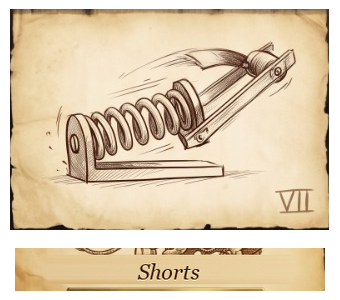
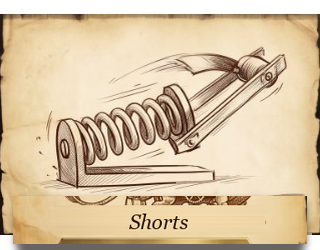
feat: authentic 3D brass metal plates with realistic drop shadows, bevels, side rivets and cleaned parchment

diff --git a/frontend/index.html b/frontend/index.html
@@ -16,7 +16,7 @@
     <link rel="preconnect" href="https://fonts.gstatic.com" crossorigin />
     <link href="https://fonts.googleapis.com/css2?family=Plus+Jakarta+Sans:wght@500;600;700;800&display=swap" rel="stylesheet" />
     
-    <link rel="stylesheet" href="./assets/css/main.css?v=2.8" />
+    <link rel="stylesheet" href="./assets/css/main.css?v=2.9" />
 
     <script>
       // Global splash screen dismissal
@@ -90,6 +90,6 @@
       }
     </style>
 
-    <script type="module" src="./app.js?v=2.8"></script>
+    <script type="module" src="./app.js?v=2.9"></script>
   </body>
 </html>

diff --git a/index.html b/index.html
@@ -16,7 +16,7 @@
     <link rel="preconnect" href="https://fonts.gstatic.com" crossorigin />
     <link href="https://fonts.googleapis.com/css2?family=Plus+Jakarta+Sans:wght@500;600;700;800&display=swap" rel="stylesheet" />
     
-    <link rel="stylesheet" href="./assets/css/main.css?v=2.8" />
+    <link rel="stylesheet" href="./assets/css/main.css?v=2.9" />
 
     <script>
       // Global splash screen dismissal
@@ -90,6 +90,6 @@
       }
     </style>
 
-    <script type="module" src="./app.js?v=2.8"></script>
+    <script type="module" src="./app.js?v=2.9"></script>
   </body>
 </html>

diff --git a/assets/css/main.css b/assets/css/main.css
@@ -338,7 +338,7 @@ html, body {
 .level-card {
   position: relative;
   width: 100%;
-  aspect-ratio: 340 / 300;
+  aspect-ratio: 320 / 250;
   display: flex;
   align-items: center;
   justify-content: center;

diff --git a/frontend/assets/css/main.css b/frontend/assets/css/main.css
@@ -338,7 +338,7 @@ html, body {
 .level-card {
   position: relative;
   width: 100%;
-  aspect-ratio: 340 / 300;
+  aspect-ratio: 320 / 250;
   display: flex;
   align-items: center;
   justify-content: center;
